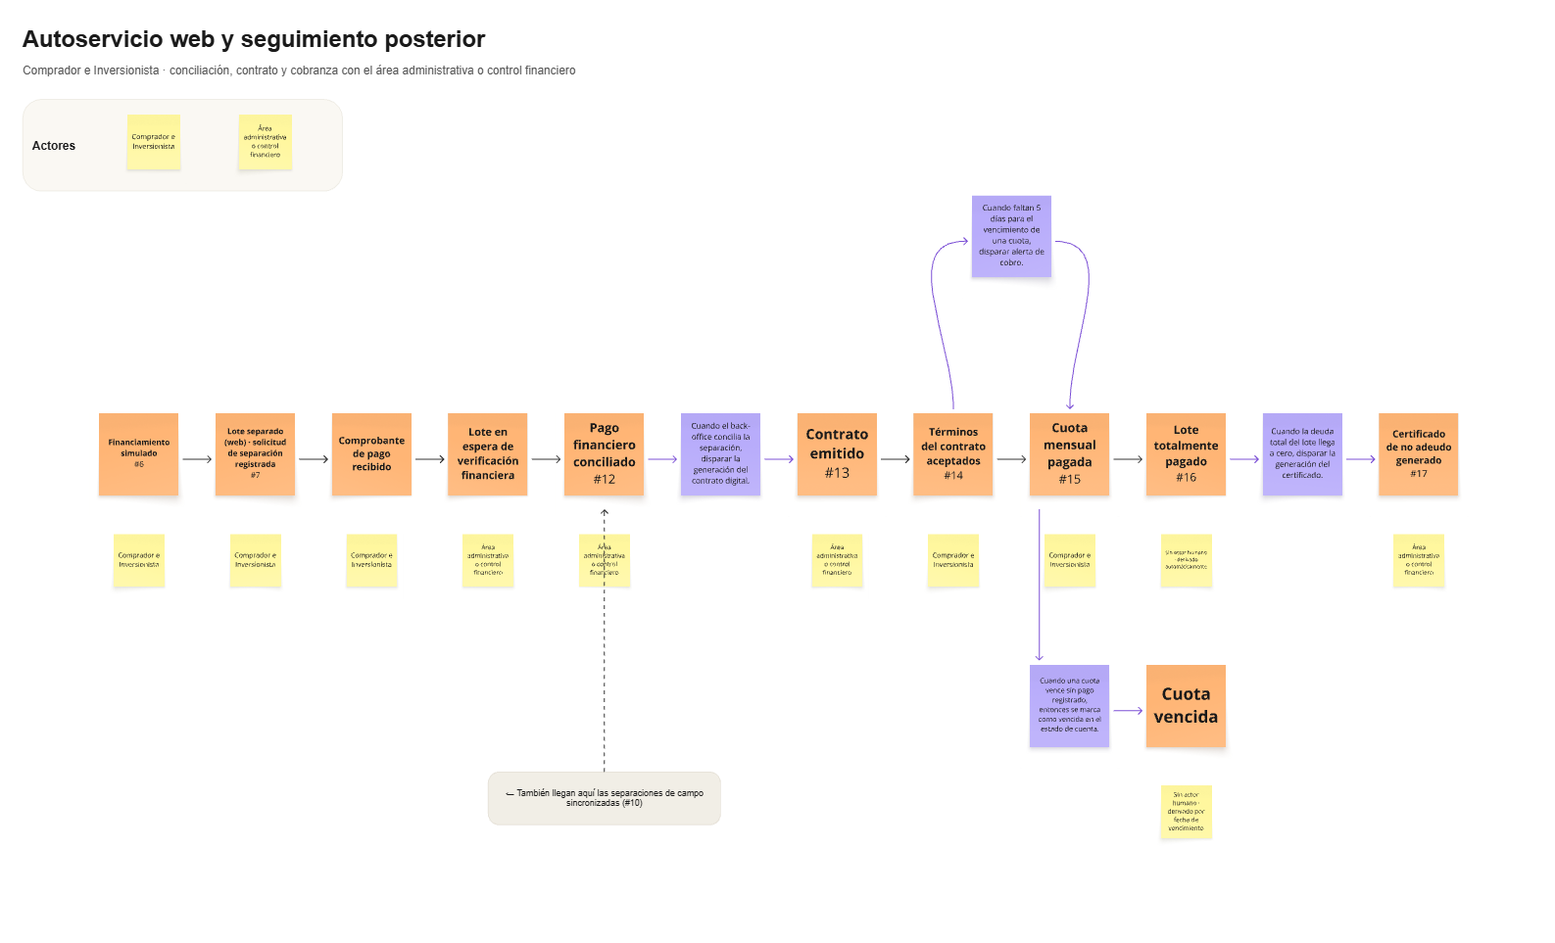
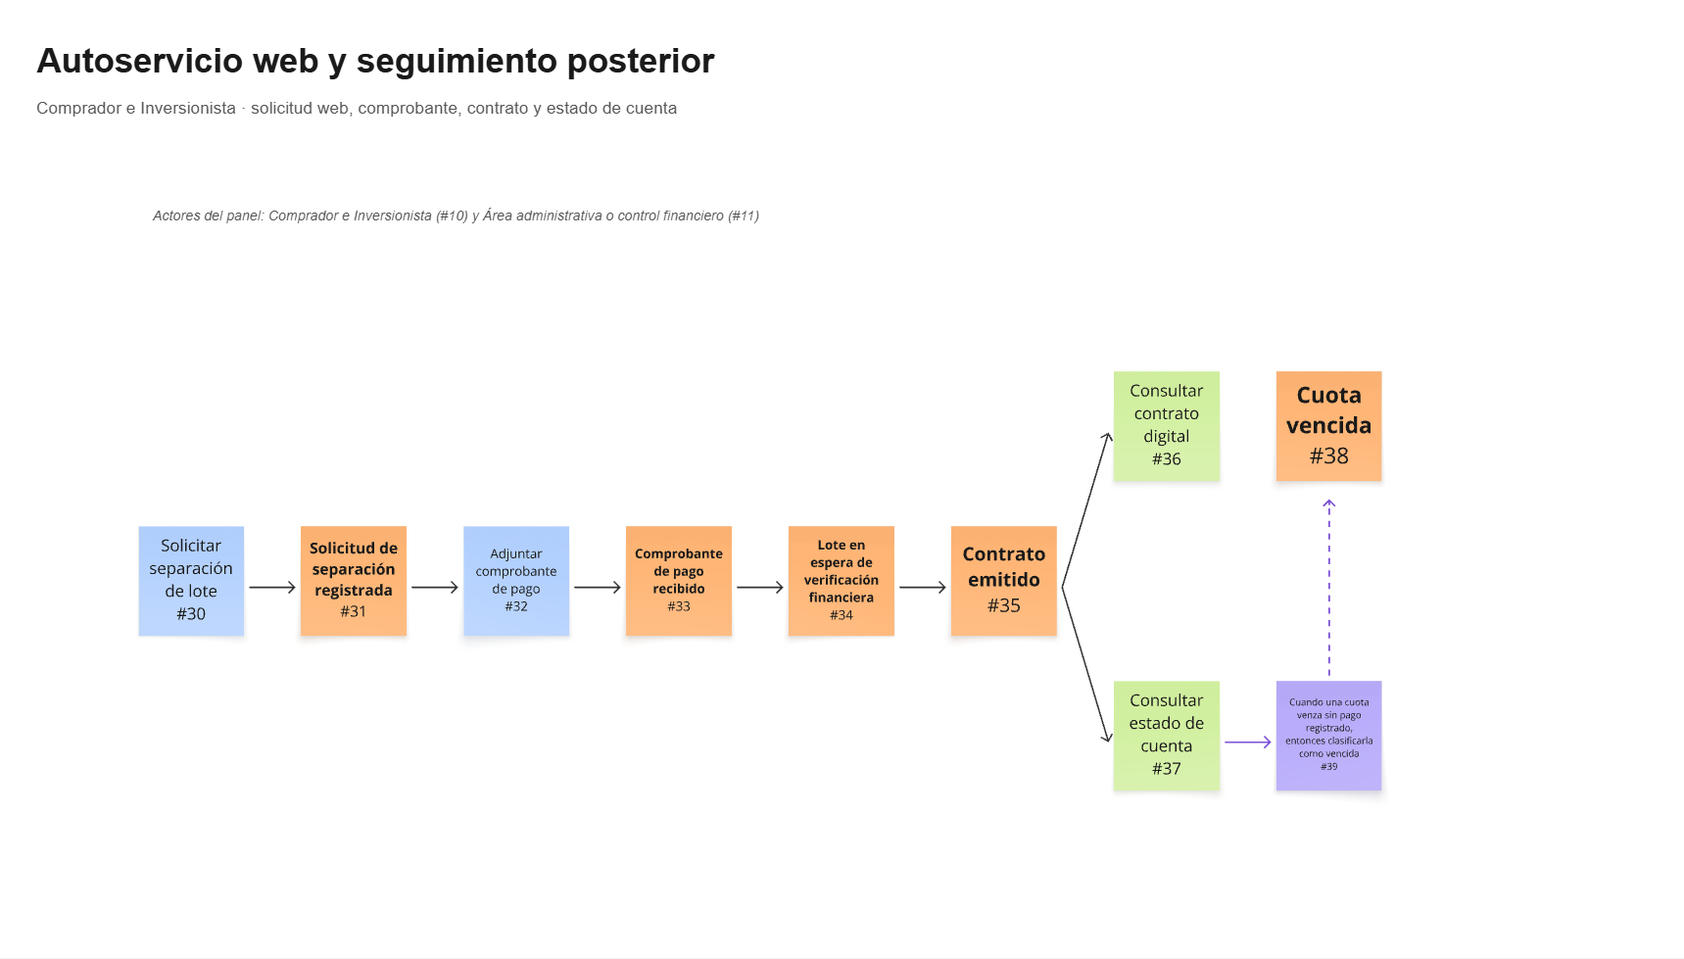
docs(chapter-02): add Catálogo Inmobiliario to EventStorming and candidate context discovery

diff --git a/docs/Chapter-02.md b/docs/Chapter-02.md
@@ -380,15 +380,15 @@ El tablero se organiza en tres paneles cronológicos: la gestión de catálogo q
 
 **Panel 1. Gestión de catálogo.**
 
-![Big Picture EventStorming — Gestión de catálogo](../assets/cap2/Eventstorming_1.png)
+![Big Picture EventStorming — Gestión de catálogo](../assets/cap2/BigPictureEventStorming_1.png)
 
 **Panel 2. Operación comercial de campo.**
 
-![Big Picture EventStorming — Operación comercial de campo](../assets/cap2/Eventstorming_2.png)
+![Big Picture EventStorming — Operación comercial de campo](../assets/cap2/BigPictureEventStorming_2.png)
 
 **Panel 3. Autoservicio web y seguimiento posterior.**
 
-![Big Picture EventStorming — Autoservicio web y seguimiento posterior](../assets/cap2/Eventstorming_3.png)
+![Big Picture EventStorming — Autoservicio web y seguimiento posterior](../assets/cap2/BigPictureEventStorming_3.png)
 
 ### 2.3.6. Ubiquitous Language
 
@@ -1614,60 +1614,77 @@ El proceso se desarrolló de forma secuencial. Primero se identificaron los even
 
 | Orden | Tipo de elemento | Nombre | Propósito o descripción | Evidencia o justificación |
 | :---: | :---: | :---: | :---: | :---: |
-| 1 | Actor | Agente Comercial de Campo | Atiende al prospecto, consulta lotes y registra información durante el trabajo en terreno. | épica de Gestión Operativa In Situ. |
-| 2 | Actor | Comprador e Inversionista | Explora proyectos, simula financiamiento, solicita separación, adjunta comprobantes y consulta documentos. | épicas EP-03 y EP-04. |
-| 3 | Actor | Área administrativa o control financiero | Recibe información y requiere validar comprobantes para avanzar la separación y documentación. | US-20. |
-| 4 | Consulta | Consultar disponibilidad y ficha del lote | Permite conocer el estado, área y demás información comercial disponible del lote antes de la separación. | US-05, US-15 y US-16. |
-| 5 | Comando | Registrar prospecto | Expresa la intención de almacenar los datos de un nuevo cliente potencial. | US-04. |
-| 6 | Evento de dominio | Prospecto registrado | Confirma que la información del prospecto fue registrada para continuar la gestión comercial. | US-04. |
-| 7 | Comando | Registrar separación de lote | Expresa la intención de reservar un lote para el prospecto o comprador. | US-06 y US-19. |
-| 8 | Regla de negocio | Lote disponible para separación | Un lote no debe separarse si ya figura como separado o vendido en la información disponible. | US-06 y US-19. |
-| 9 | Evento de dominio | Lote separado | Representa el registro de la intención de separación del lote. En modo offline, queda pendiente de sincronización. | US-06. |
-| 10 | Comando | Capturar voucher de pago | Expresa la intención de registrar evidencia documental de una separación. | US-07. |
-| 11 | Evento de dominio | Voucher capturado | Confirma que la fotografía del comprobante fue asociada a la separación. | US-07. |
-| 12 | Comando | Extraer datos del voucher | Solicita identificar monto, fecha y código de operación a partir de la imagen capturada. | US-09. |
-| 13 | Evento de dominio | Datos del voucher extraídos | Indica que el OCR obtuvo datos del comprobante para su revisión o corrección. | US-09. |
-| 14 | Política | Cuando la imagen sea ilegible, entonces solicitar una nueva captura | Evita continuar con información insuficiente para sustentar el comprobante. | US-09. |
-| 15 | Comando | Corregir datos del voucher | Permite que el agente ajuste los datos extraídos cuando identifique una lectura incorrecta. | US-10. |
-| 16 | Evento de dominio | Datos del voucher corregidos | Registra que los valores extraídos fueron modificados manualmente antes de su guardado. | US-10. |
-| 17 | Evento de dominio | Conectividad recuperada | Señala que existe la condición necesaria para remitir los registros pendientes. | US-03 y US-11. |
-| 18 | Comando | Sincronizar registros pendientes | Expresa la intención de transferir registros locales al repositorio central. | US-11. |
-| 19 | Evento de dominio | Registros sincronizados | Confirma que los registros locales fueron transferidos y reconocidos como sincronizados. | US-11. |
-| 20 | Política | Cuando una separación sincronizada entre en conflicto, entonces notificar conflicto de disponibilidad | Responde a la existencia de un lote vendido o separado por otro actor antes de consolidar la operación. | US-12. |
-| 21 | Evento de dominio | Conflicto de disponibilidad detectado | Comunica que una separación no puede consolidarse por discrepancia con la disponibilidad central. | US-12. |
-| 22 | Comando | Solicitar separación de lote | Expresa la intención del comprador de iniciar una reserva mediante el portal web. | US-19. |
-| 23 | Evento de dominio | Solicitud de separación registrada | Confirma que se registró la intención formal de separar el lote desde la web. | US-19. |
-| 24 | Comando | Adjuntar comprobante de pago | Expresa la intención del comprador de entregar evidencia de transferencia bancaria. | US-20. |
-| 25 | Evento de dominio | Comprobante de pago recibido | Confirma que la evidencia fue recibida para el proceso de verificación. | US-20. |
-| 26 | Evento de dominio | Lote en espera de verificación financiera | Indica que la separación requiere revisión financiera antes de avanzar. | US-20. |
-| 27 | Evento de dominio | Contrato emitido | Representa que el back-office emitió el contrato preliminar disponible para el comprador. | US-21. |
-| 28 | Consulta | Consultar contrato digital | Permite al comprador revisar contrato y anexos cuando estén emitidos. | US-21. |
-| 29 | Consulta  | Consultar estado de cuenta | Permite visualizar monto pagado, deuda restante y avance de pago. | US-23. |
-| 30 | Evento de dominio | Cuota vencida | Representa el cambio de estado de una cuota no registrada dentro de su fecha de vencimiento. | US-24. |
-| 31 | Política | Cuando una cuota venza sin pago registrado, entonces clasificarla como vencida | Permite reflejar el estado de pago en el seguimiento financiero. | US-24. |
+| 1 | Actor | Administrador / Back-office de Catálogo | Da de alta y publica los proyectos y lotes con su información comercial y geoespacial. | épica EP-06. |
+| 2 | Comando | Crear proyecto | Expresa la intención de registrar un nuevo proyecto inmobiliario. | US-51. |
+| 3 | Evento de dominio | Proyecto creado | Confirma que el proyecto fue registrado y queda habilitado para la carga de lotes. | US-51. |
+| 4 | Comando | Crear lote | Expresa la intención de registrar un lote con sus dimensiones, precio base y polígono catastral. | US-52. |
+| 5 | Evento de dominio | Lote creado | Confirma que el lote fue registrado con su ficha técnica completa, en estado no publicado. | US-52. |
+| 6 | Comando | Publicar lote al catálogo | Expresa la intención de habilitar un lote ya creado para su disponibilidad comercial. | US-53. |
+| 7 | Evento de dominio | Lote publicado en catálogo | Confirma que el lote queda disponible para su consulta y separación por el resto del ecosistema. | US-53. |
+| 8 | Política | Cuando un lote se publica, entonces queda disponible para separación | Habilita la disponibilidad comercial consolidada en Control Financiero y Documental. | US-53. |
+| 9 | Actor | Agente Comercial de Campo | Atiende al prospecto, consulta lotes y registra información durante el trabajo en terreno. | épica de Gestión Operativa In Situ. |
+| 10 | Actor | Comprador e Inversionista | Explora proyectos, simula financiamiento, solicita separación, adjunta comprobantes y consulta documentos. | épicas EP-03 y EP-04. |
+| 11 | Actor | Área administrativa o control financiero | Recibe información y requiere validar comprobantes para avanzar la separación y documentación. | US-20. |
+| 12 | Consulta | Consultar disponibilidad y ficha del lote | Permite conocer el estado, área y demás información comercial disponible del lote antes de la separación. | US-05, US-15 y US-16. |
+| 13 | Comando | Registrar prospecto | Expresa la intención de almacenar los datos de un nuevo cliente potencial. | US-04. |
+| 14 | Evento de dominio | Prospecto registrado | Confirma que la información del prospecto fue registrada para continuar la gestión comercial. | US-04. |
+| 15 | Comando | Registrar separación de lote | Expresa la intención de reservar un lote para el prospecto o comprador. | US-06 y US-19. |
+| 16 | Regla de negocio | Lote disponible para separación | Un lote no debe separarse si ya figura como separado o vendido en la información disponible. | US-06 y US-19. |
+| 17 | Evento de dominio | Lote separado | Representa el registro de la intención de separación del lote. En modo offline, queda pendiente de sincronización. | US-06. |
+| 18 | Comando | Capturar voucher de pago | Expresa la intención de registrar evidencia documental de una separación. | US-07. |
+| 19 | Evento de dominio | Voucher capturado | Confirma que la fotografía del comprobante fue asociada a la separación. | US-07. |
+| 20 | Comando | Extraer datos del voucher | Solicita identificar monto, fecha y código de operación a partir de la imagen capturada. | US-09. |
+| 21 | Evento de dominio | Datos del voucher extraídos | Indica que el OCR obtuvo datos del comprobante para su revisión o corrección. | US-09. |
+| 22 | Política | Cuando la imagen sea ilegible, entonces solicitar una nueva captura | Evita continuar con información insuficiente para sustentar el comprobante. | US-09. |
+| 23 | Comando | Corregir datos del voucher | Permite que el agente ajuste los datos extraídos cuando identifique una lectura incorrecta. | US-10. |
+| 24 | Evento de dominio | Datos del voucher corregidos | Registra que los valores extraídos fueron modificados manualmente antes de su guardado. | US-10. |
+| 25 | Evento de dominio | Conectividad recuperada | Señala que existe la condición necesaria para remitir los registros pendientes. | US-03 y US-11. |
+| 26 | Comando | Sincronizar registros pendientes | Expresa la intención de transferir registros locales al repositorio central. | US-11. |
+| 27 | Evento de dominio | Registros sincronizados | Confirma que los registros locales fueron transferidos y reconocidos como sincronizados. | US-11. |
+| 28 | Política | Cuando una separación sincronizada entre en conflicto, entonces notificar conflicto de disponibilidad | Responde a la existencia de un lote vendido o separado por otro actor antes de consolidar la operación. | US-12. |
+| 29 | Evento de dominio | Conflicto de disponibilidad detectado | Comunica que una separación no puede consolidarse por discrepancia con la disponibilidad central. | US-12. |
+| 30 | Comando | Solicitar separación de lote | Expresa la intención del comprador de iniciar una reserva mediante el portal web. | US-19. |
+| 31 | Evento de dominio | Solicitud de separación registrada | Confirma que se registró la intención formal de separar el lote desde la web. | US-19. |
+| 32 | Comando | Adjuntar comprobante de pago | Expresa la intención del comprador de entregar evidencia de transferencia bancaria. | US-20. |
+| 33 | Evento de dominio | Comprobante de pago recibido | Confirma que la evidencia fue recibida para el proceso de verificación. | US-20. |
+| 34 | Evento de dominio | Lote en espera de verificación financiera | Indica que la separación requiere revisión financiera antes de avanzar. | US-20. |
+| 35 | Evento de dominio | Contrato emitido | Representa que el back-office emitió el contrato preliminar disponible para el comprador. | US-21. |
+| 36 | Consulta | Consultar contrato digital | Permite al comprador revisar contrato y anexos cuando estén emitidos. | US-21. |
+| 37 | Consulta  | Consultar estado de cuenta | Permite visualizar monto pagado, deuda restante y avance de pago. | US-23. |
+| 38 | Evento de dominio | Cuota vencida | Representa el cambio de estado de una cuota no registrada dentro de su fecha de vencimiento. | US-24. |
+| 39 | Política | Cuando una cuota venza sin pago registrado, entonces clasificarla como vencida | Permite reflejar el estado de pago en el seguimiento financiero. | US-24. |
 
 | Orden | Acción o comando | Evento de dominio resultante | Regla, decisión u observación |
 | :---: | :---: | :---: | :---: |
-| 1 | Consultar disponibilidad y ficha del lote | Información de lote consultada | La consulta debe diferenciar lotes disponibles, separados y vendidos según la información disponible. |
-| 2 | Registrar prospecto | Prospecto registrado | El documento indica que ciertos datos, como documento de identidad, son obligatorios para el registro. |
-| 3 | Registrar separación de lote | Lote separado | La separación offline queda pendiente de sincronización y no evita por sí sola conflictos con otros dispositivos. |
-| 4 | Capturar voucher de pago | Voucher capturado | La evidencia debe asociarse a la separación correspondiente. |
-| 5 | Extraer datos del voucher | Datos del voucher extraídos | Se obtienen monto, fecha y código de operación; la lectura requiere validación si existen errores. |
-| 6 | Corregir datos del voucher | Datos del voucher corregidos | La corrección manual se contempla como alternativa ante limitaciones del OCR. |
-| 7 | Sincronizar registros pendientes | Registros sincronizados | El flujo depende de la recuperación de conectividad. |
-| 8 | Sincronizar separación pendiente | Conflicto de disponibilidad detectado | Si el lote ya fue vendido por otro actor, la separación local debe ser revisada y el agente debe ser notificado. |
-| 9 | Solicitar separación de lote | Solicitud de separación registrada | La solicitud web depende de que el lote esté disponible y puede ser rechazada por concurrencia. |
-| 10 | Adjuntar comprobante de pago | Comprobante de pago recibido | La recepción deriva en un estado de espera de verificación financiera. |
-| 11 | Emitir contrato preliminar | Contrato emitido | La disponibilidad del contrato se vincula con la emisión por el back-office; sus reglas completas deben validarse. |
-| 12 | Actualizar estado de cuenta | Cuota vencida | El documento indica que una cuota sin pago registrado puede clasificarse como vencida. |
+| 1 | Crear proyecto | Proyecto creado | El proyecto debe existir antes de poder registrar lotes asociados a él. |
+| 2 | Crear lote | Lote creado | El lote requiere dimensiones, precio base y polígono catastral para completar su ficha técnica. |
+| 3 | Publicar lote al catálogo | Lote publicado en catálogo | Un lote no puede publicarse sin polígono, precio y proyecto asociado completos. |
+| 4 | Consultar disponibilidad y ficha del lote | Información de lote consultada | La consulta debe diferenciar lotes disponibles, separados y vendidos según la información disponible. |
+| 5 | Registrar prospecto | Prospecto registrado | El documento indica que ciertos datos, como documento de identidad, son obligatorios para el registro. |
+| 6 | Registrar separación de lote | Lote separado | La separación offline queda pendiente de sincronización y no evita por sí sola conflictos con otros dispositivos. |
+| 7 | Capturar voucher de pago | Voucher capturado | La evidencia debe asociarse a la separación correspondiente. |
+| 8 | Extraer datos del voucher | Datos del voucher extraídos | Se obtienen monto, fecha y código de operación; la lectura requiere validación si existen errores. |
+| 9 | Corregir datos del voucher | Datos del voucher corregidos | La corrección manual se contempla como alternativa ante limitaciones del OCR. |
+| 10 | Sincronizar registros pendientes | Registros sincronizados | El flujo depende de la recuperación de conectividad. |
+| 11 | Sincronizar separación pendiente | Conflicto de disponibilidad detectado | Si el lote ya fue vendido por otro actor, la separación local debe ser revisada y el agente debe ser notificado. |
+| 12 | Solicitar separación de lote | Solicitud de separación registrada | La solicitud web depende de que el lote esté disponible y puede ser rechazada por concurrencia. |
+| 13 | Adjuntar comprobante de pago | Comprobante de pago recibido | La recepción deriva en un estado de espera de verificación financiera. |
+| 14 | Emitir contrato preliminar | Contrato emitido | La disponibilidad del contrato se vincula con la emisión por el back-office; sus reglas completas deben validarse. |
+| 15 | Actualizar estado de cuenta | Cuota vencida | El documento indica que una cuota sin pago registrado puede clasificarse como vencida. |
 
-**Figura. EventStorming del dominio**
+**Figura. EventStorming del dominio.**
 
-![EventStorming del dominio](../assets/EventStorming.jpg)
+El tablero se organiza en los mismos tres paneles cronológicos que el Big Picture, esta vez con el detalle de Comandos, Consultas y Reglas de negocio que sustentan la tabla anterior.
+
+![EventStorming del dominio — Gestión de catálogo](../assets/cap2/Eventstorming_1.png)
+
+![EventStorming del dominio — Operación comercial de campo](../assets/cap2/Eventstorming_2.png)
+
+![EventStorming del dominio — Autoservicio web y seguimiento posterior](../assets/cap2/Eventstorming_3.png)
 
 #### 2.5.1.1. Candidate Context Discovery
 
-La técnica aplicada es **Look-for-pivotal-events**, porque el flujo documentado presenta cambios de estado y de responsabilidad que permiten distinguir etapas de negocio: la separación de un lote, la captura y digitalización de un voucher, la sincronización de registros pendientes, la recepción de un comprobante para validación financiera y la emisión de un contrato. Estos eventos pivote modifican el tratamiento del lote, del comprobante y de la información del comprador, por lo que constituyen una base razonable para proponer límites de contexto.
+La técnica aplicada es **Look-for-pivotal-events**, porque el flujo documentado presenta cambios de estado y de responsabilidad que permiten distinguir etapas de negocio: la publicación de un lote al catálogo, la separación de un lote, la captura y digitalización de un voucher, la sincronización de registros pendientes, la recepción de un comprobante para validación financiera y la emisión de un contrato. Estos eventos pivote modifican el tratamiento del lote, del comprobante y de la información del comprador, por lo que constituyen una base razonable para proponer límites de contexto.
 
 Los eventos se agruparon considerando propósito de negocio, responsables, reglas, lenguaje ubicuo y transición de estados. La sesión de descubrimiento de contextos no se excedió de 2 horas.
 
@@ -1677,6 +1694,7 @@ Los eventos se agruparon considerando propósito de negocio, responsables, regla
 | Gestión de Comprobantes | Digitalizar la evidencia de pago y obtener datos relevantes para reducir errores de transcripción y pérdida documental. | Voucher capturado; Datos del voucher extraídos; Datos del voucher corregidos; Comprobante de pago recibido. | Voucher, comprobante, monto, fecha, código de operación, OCR, corrección. | Agente Comercial de Campo; Comprador e Inversionista; área administrativa. | Capturar o recibir evidencia documental, extraer información, permitir corrección y entregar la evidencia para revisión. | El comprobante posee reglas, riesgos y terminología propios, especialmente por la legibilidad de la imagen y la corrección de datos extraídos. | Core, como propuesta sujeta a validación. |
 | Cotización y Separación Digital | Facilitar que el comprador explore proyectos, revise lotes, simule financiamiento e inicie una solicitud de separación desde el canal web. | Solicitud de separación registrada. | Proyecto inmobiliario, lote, cotización, financiamiento, cuota inicial, solicitud de separación. | Comprador e Inversionista. | Exponer proyectos y lotes, permitir filtros, generar simulaciones y registrar la intención de separación. | El objetivo es apoyar la decisión y la adquisición autónoma del comprador, con reglas comerciales sobre disponibilidad e inicial mínima. | Supporting, como propuesta sujeta a validación. |
 | Control Financiero y Documental | Verificar el avance de pagos y habilitar información contractual y financiera para el comprador. | Lote en espera de verificación financiera; Contrato emitido; Cuota vencida. | Verificación financiera, contrato, anexo, estado de cuenta, pago, cuota, vencimiento. | Área administrativa o control financiero; back-office; Comprador e Inversionista; área legal. | Gestionar el estado de verificación, disponibilizar contratos emitidos, consolidar estados de cuenta y reflejar cuotas vencidas. | El lenguaje y las decisiones se orientan a la trazabilidad financiera y documental posterior a la separación, diferenciándose de la operación comercial en campo. | Supporting, como propuesta sujeta a validación. |
+| Catálogo Inmobiliario | Permitir que el área administrativa dé de alta y publique proyectos y lotes con su información comercial y geoespacial. | Proyecto creado; Lote creado; Lote publicado en catálogo. | Proyecto inmobiliario, lote, alta de lote, polígono catastral, publicación de catálogo. | Administrador / Back-office de Catálogo. | Registrar proyectos, registrar lotes con su ficha técnica y publicarlos para su disponibilidad comercial. | Su lenguaje se centra en el origen y la calidad de los datos del inventario, antes de que cualquier otro contexto pueda leerlo o cambiar su estado comercial. | Supporting, como propuesta sujeta a validación. |
 
 **Gestión Comercial en Campo**
 
@@ -1718,13 +1736,31 @@ Los eventos se agruparon considerando propósito de negocio, responsables, regla
 * Razón de la delimitación: el contexto agrupa decisiones de seguimiento financiero y documental que ocurren después de la recepción de evidencia y que involucran responsables administrativos y de back-office.  
 * Dependencias con otros contextos: requiere comprobantes y datos de separación; comunica la emisión de contratos y la información de estado de cuenta a los canales de autoservicio.
 
+**Catálogo Inmobiliario**
+
+* Propósito: permitir que el área administrativa registre y publique proyectos y lotes con su información comercial y geoespacial, como origen del inventario que el resto del sistema consulta o cuyo estado modifica.
+* Alcance: alta de proyecto, alta de lote con dimensiones, precio base y polígono catastral, y publicación del lote al catálogo.
+* Elementos incluidos: proyecto inmobiliario, lote, polígono catastral, precio base, alta de lote, publicación de catálogo.
+* Elementos excluidos: disponibilidad comercial posterior a la publicación, bloqueo, separación y venta del lote, que son responsabilidad de Control Financiero y Documental.
+* Eventos y reglas asociados: Proyecto creado, Lote creado y Lote publicado en catálogo; un lote no puede publicarse sin polígono, precio y proyecto asociado completos.
+* Razón de la delimitación: el contexto agrupa decisiones sobre el origen y la calidad de los datos del inventario, una responsabilidad distinta de administrar su disponibilidad comercial una vez publicado.
+* Dependencias con otros contextos: comunica la publicación de un lote a Control Financiero y Documental, que lo consolida como inventario disponible para separación.
+
 **Figura. EventStorming inicial antes de la delimitación de contextos.**
 
-![EventStorming del dominio](../assets/EventStorming.jpg)
+![EventStorming del dominio — Gestión de catálogo](../assets/cap2/Eventstorming_1.png)
+
+![EventStorming del dominio — Operación comercial de campo](../assets/cap2/Eventstorming_2.png)
+
+![EventStorming del dominio — Autoservicio web y seguimiento posterior](../assets/cap2/Eventstorming_3.png)
 
 **Figura. Candidate Context Discovery con agrupación de eventos y contextos candidatos.**
 
-![Candidate Context Discovery](../assets/Candidate-Context-Discovery.jpg)
+![Candidate Context Discovery — Gestión de catálogo](../assets/cap2/Candidate-Context-Discovery_1.png)
+
+![Candidate Context Discovery — Operación comercial de campo](../assets/cap2/Candidate-Context-Discovery_2.png)
+
+![Candidate Context Discovery — Autoservicio web y seguimiento posterior](../assets/cap2/Candidate-Context-Discovery_3.png)
 
 #### 2.5.1.2. Domain Message Flows Modeling
 
